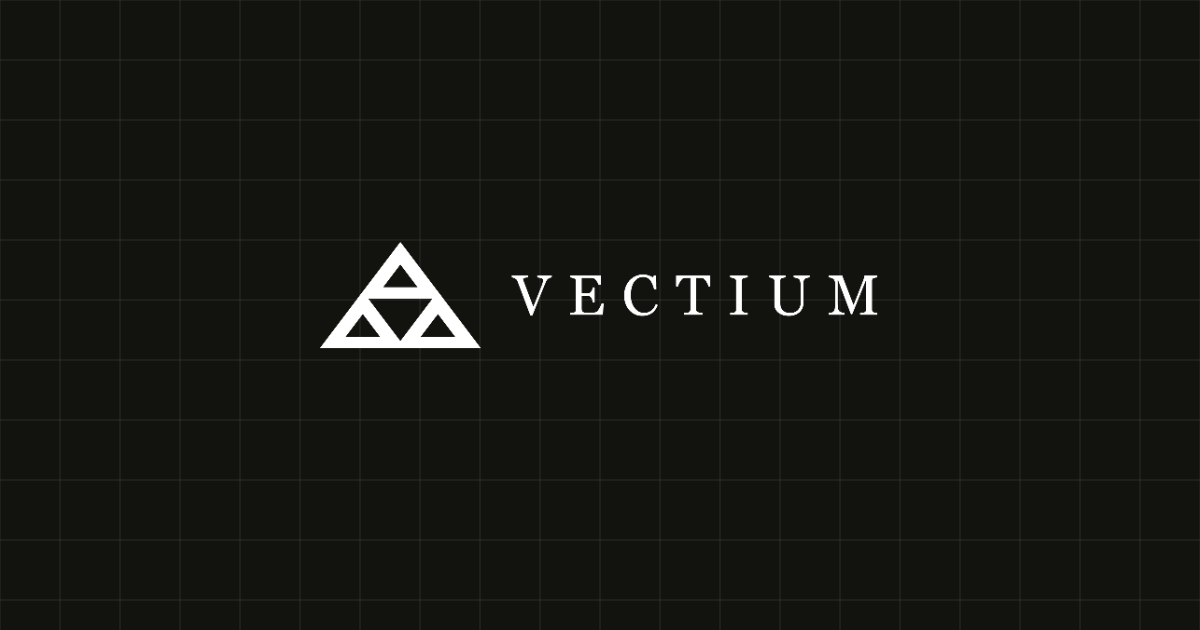
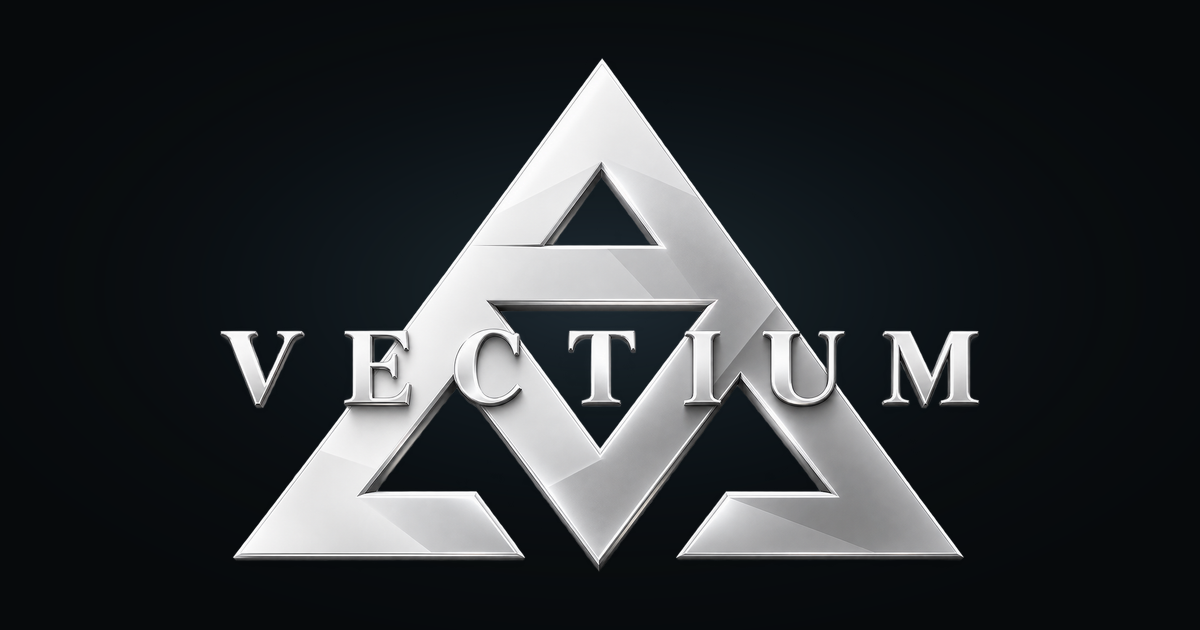
feat(marca): integra el isologo 3D cromado en el bloque de marca y en la OG
Andres subio los 5 renders. Solo UNO sirve, y se verifico antes de usarlo:

  logo-vectium-redes-1..4.png      1254x1254  colorType 2 = RGB SIN alfa
  logo-vectium-redes-sin-fondo.png 1536x1024  colorType 6 = RGBA

Los 4 primeros no tienen canal alfa: traen el fondo pintado y habrian
reintroducido el recuadro flotante que arreglamos en el commit anterior. El
"sin-fondo" si es un recorte real — histograma de alfa: 62% transparente, 32%
opaco, el resto antialias; y solo ~6% de sus pixeles visibles tiene luminancia
< 90, o sea el halo que se le ve al abrirlo esta en alfa 1-50, invisible.

Procesado con sharp (ya estaba en el repo, no se instalo nada):
- trim() para sacarle el aire: 1536x1024 -> 1419x960.
- resize a 1100px + doble salida. WebP 104KB vs 1530KB del original: 93% menos.
  El PNG (651KB) queda de respaldo en <picture>; se sirve el WebP.

BrandMoment: dos imagenes, una por tema.
- OSCURO -> cromado 3D. CLARO -> isologo plano de vectium-icons.
- Por que dos y no una filtrada: el cromado es plateado y sobre el fondo blanco
  del tema claro se lava. Y no se le puede aplicar el truco de
  `brightness(0) invert(1)` porque le mataria los degradados metalicos, que son
  todo su valor.
- El <img> del cromado va aria-hidden: es la misma marca que el otro, sin eso
  un lector de pantalla la anunciaria dos veces.

og-image.png regenerada con el cromado sobre el negro de --site-bg-deep
(#070A0C) y un halo de acento para que no quede plano. Es lo que se ve al
[…]

Changed region(s): [[0.185, 0.0905, 0.8325, 0.9048]]

diff --git a/src/components/site/BrandMoment.tsx b/src/components/site/BrandMoment.tsx
@@ -7,32 +7,38 @@ import { SiteAurora } from "@/components/site/SiteAurora";
 /**
  * Bloque de marca a pantalla ancha: el isologo grande sobre la aurora.
  *
- * ┌─ POR QUE UNA SOLA IMAGEN Y NO DOS ──────────────────────────────────────┐
- * │ La primera version servia `og-image.png` en tema oscuro. Se veia MAL y  │
- * │ Andres lo cazo en el iPad: ese archivo tiene el fondo PINTADO —         │
- * │ verificado muestreando el pixel (0,0): alfa 255, RGB(18,18,15)— asi que │
- * │ en la pagina aparecia como una tarjeta gris con grilla y esquinas       │
- * │ redondeadas flotando, en vez de un logo.                                │
+ * ┌─ POR QUE HAY DOS IMAGENES, UNA POR TEMA ────────────────────────────────┐
+ * │ El isologo 3D cromado es PLATEADO, casi blanco. Sobre el fondo oscuro   │
+ * │ se ve premium; sobre el fondo blanco del tema claro se lava y queda     │
+ * │ ilegible, porque lo unico que lo dibujaria son los biseles oscuros.     │
+ * │ Medido: solo el ~6% de sus pixeles visibles tiene luminancia < 90.      │
  * │                                                                         │
- * │ `logo.png` en cambio tiene alfa 0 en las esquinas: fondo REALMENTE      │
- * │ transparente. Por eso ahora se usa esa sola imagen en los dos temas, y  │
- * │ el color se resuelve con un filtro CSS.                                 │
+ * │ Por eso:  tema OSCURO -> cromado 3D   ·   tema CLARO -> isologo plano.  │
  * │                                                                         │
- * │ `brightness(0) invert(1)` = aplasta la tinta a negro y la invierte a    │
- * │ blanco puro, respetando el canal alfa. Es mas predecible que `invert`   │
- * │ solo, que sobre la tinta casi-negra del logo daria un blanco sucio.     │
+ * │ ⚠ Al cromado NO se le puede aplicar un filtro de color (el truco de    │
+ * │ `brightness(0) invert(1)` que usa el plano): le mataria los degradados  │
+ * │ metalicos, que son exactamente su valor. Por eso van dos archivos y no  │
+ * │ uno filtrado.                                                           │
+ * └─────────────────────────────────────────────────────────────────────────┘
+ *
+ * ┌─ DE DONDE SALEN LOS ARCHIVOS ───────────────────────────────────────────┐
+ * │ Fuente: `_entrada.local.logos/logo-vectium-redes-sin-fondo.png` (fuera  │
+ * │ de git). Es el UNICO de los 5 renders que Andres mando con recorte real:│
+ * │ verificado con histograma de alfa -> 62% transparente, 32% opaco, resto │
+ * │ antialias. Los otros 4 traen el fondo pintado y reintroducirian el      │
+ * │ recuadro flotante que ya nos comimos una vez.                           │
  * │                                                                         │
- * │ ⚠ Si algun dia se cambia por los renders 3D CROMADOS: no sirven tal    │
- * │ cual. Los 5 traen fondo incrustado (4 oscuros, 1 claro) y ninguno es    │
- * │ transparente — reintroducirian exactamente el recuadro que este commit  │
- * │ elimina. Hay que recortarlos a PNG con alfa primero. Y OJO: al cromado  │
- * │ NO se le puede aplicar este filtro, porque le mataria los degradados    │
- * │ metalicos, que son todo su valor; ese caso si necesita dos archivos.    │
+ * │ Procesado con sharp: `trim()` para sacarle el aire (1536x1024 ->        │
+ * │ 1419x960), resize a 1100px y doble salida. WebP pesa 104KB contra los   │
+ * │ 1530KB del original: 93% menos. El PNG queda de respaldo en <picture>.  │
  * └─────────────────────────────────────────────────────────────────────────┘
  */
 
-/** Isologo plano de vectium-icons. Fondo transparente verificado (alfa 0). */
-const LOGO = "/logo.png";
+/** Isologo 3D cromado, recortado. Solo tema OSCURO: es plateado. */
+const LOGO_3D_WEBP = "/marca/isologo-3d.webp";
+const LOGO_3D_PNG = "/marca/isologo-3d.png";
+/** Isologo plano de vectium-icons, tinta oscura. Solo tema CLARO. */
+const LOGO_PLANO = "/logo.png";
 
 export function BrandMoment() {
   const ref = useRef(null);
@@ -52,14 +58,30 @@ export function BrandMoment() {
           transition={{ duration: 0.9, ease: [0.22, 1, 0.36, 1] }}
           className="w-full"
         >
-          {/* El color se resuelve por CSS y no con JS: con `useTheme` habria
+          {/* El intercambio se hace por CSS y no con `useTheme`: con JS habria
               que esperar a que monte y el logo pegaria un salto al hidratar. */}
+
+          {/* Tema CLARO — isologo plano, tinta oscura */}
           {/* eslint-disable-next-line @next/next/no-img-element */}
           <img
-            src={LOGO}
+            src={LOGO_PLANO}
             alt="Vectium"
-            className="mx-auto block h-auto w-full max-w-[min(520px,78vw)] object-contain site-dark:[filter:brightness(0)_invert(1)]"
+            className="mx-auto block h-auto w-full max-w-[min(520px,78vw)] object-contain site-dark:hidden"
           />
+
+          {/* Tema OSCURO — isologo 3D cromado. aria-hidden porque es la MISMA
+              marca que la de arriba: sin esto un lector de pantalla la
+              anunciaria dos veces. */}
+          <picture>
+            <source srcSet={LOGO_3D_WEBP} type="image/webp" />
+            {/* eslint-disable-next-line @next/next/no-img-element */}
+            <img
+              src={LOGO_3D_PNG}
+              alt="Vectium"
+              aria-hidden="true"
+              className="mx-auto hidden h-auto w-full max-w-[min(560px,80vw)] object-contain site-dark:block"
+            />
+          </picture>
         </motion.div>
 
         <motion.p
